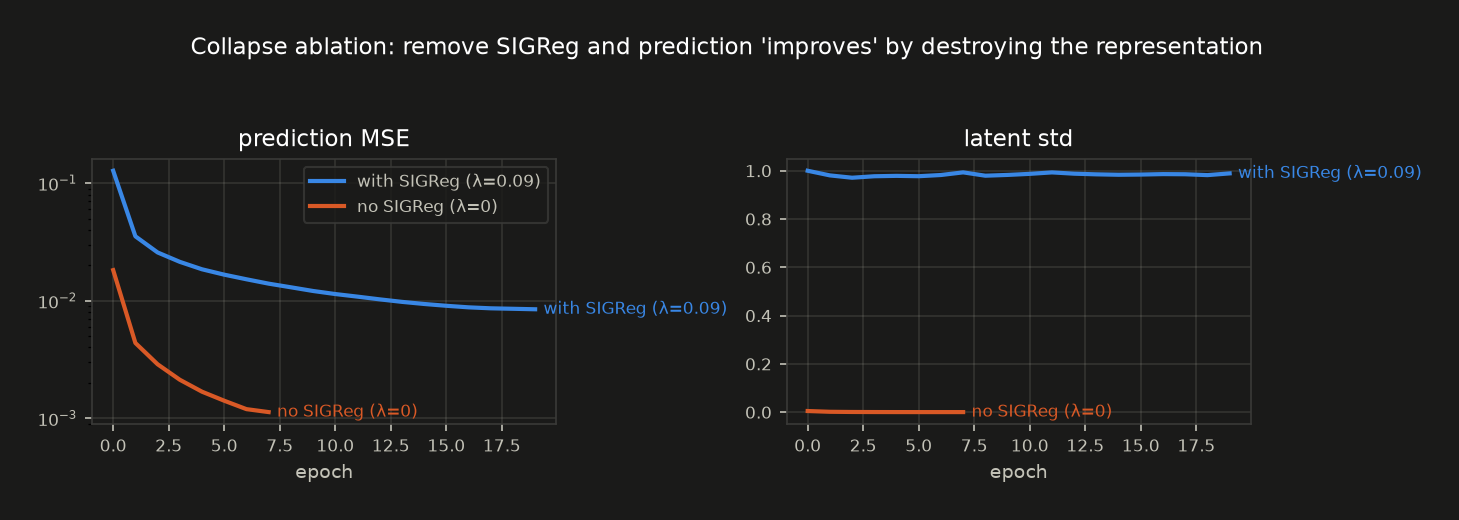
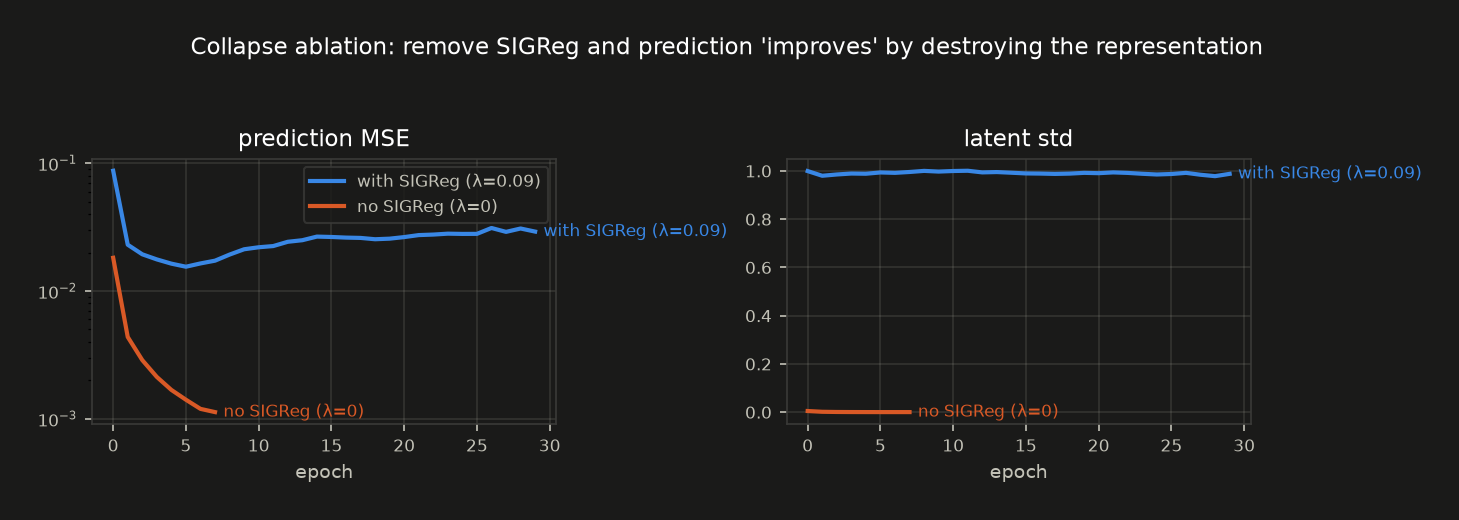
demo: env-tagged output names; collapse figure only for matching env
The pusher demo run overwrote the reacher hero GIF (hardcoded names) and
mixed pusher/reacher histories in the collapse figure.

diff --git a/lewm/demo.py b/lewm/demo.py
@@ -317,12 +317,15 @@ def main() -> None:
 
     heroes = [e for e in eps if e["success"] and len(e["live"]) >= 8]
     hero = max(heroes or eps, key=lambda e: e["start_dist"])
-    _save_gif(compose_hero(hero), MEDIA / "lewm_hero.gif")
+    _save_gif(compose_hero(hero), MEDIA / f"lewm_{env_name}_hero.gif")
     grid_eps = sorted(eps, key=lambda e: not e["success"])[:4]
-    _save_gif(compose_grid(grid_eps), MEDIA / "lewm_reacher_demo.gif")
+    _save_gif(compose_grid(grid_eps), MEDIA / f"lewm_{env_name}_grid.gif")
 
     if args.collapse_ckpt.exists():
-        collapse_figure(str(args.ckpt), str(args.collapse_ckpt))
+        import torch as _t
+        cb = _t.load(args.collapse_ckpt, map_location="cpu")
+        if cb.get("env", "reacher") == env_name:   # never mix envs in one figure
+            collapse_figure(str(args.ckpt), str(args.collapse_ckpt))
 
 
 if __name__ == "__main__":
